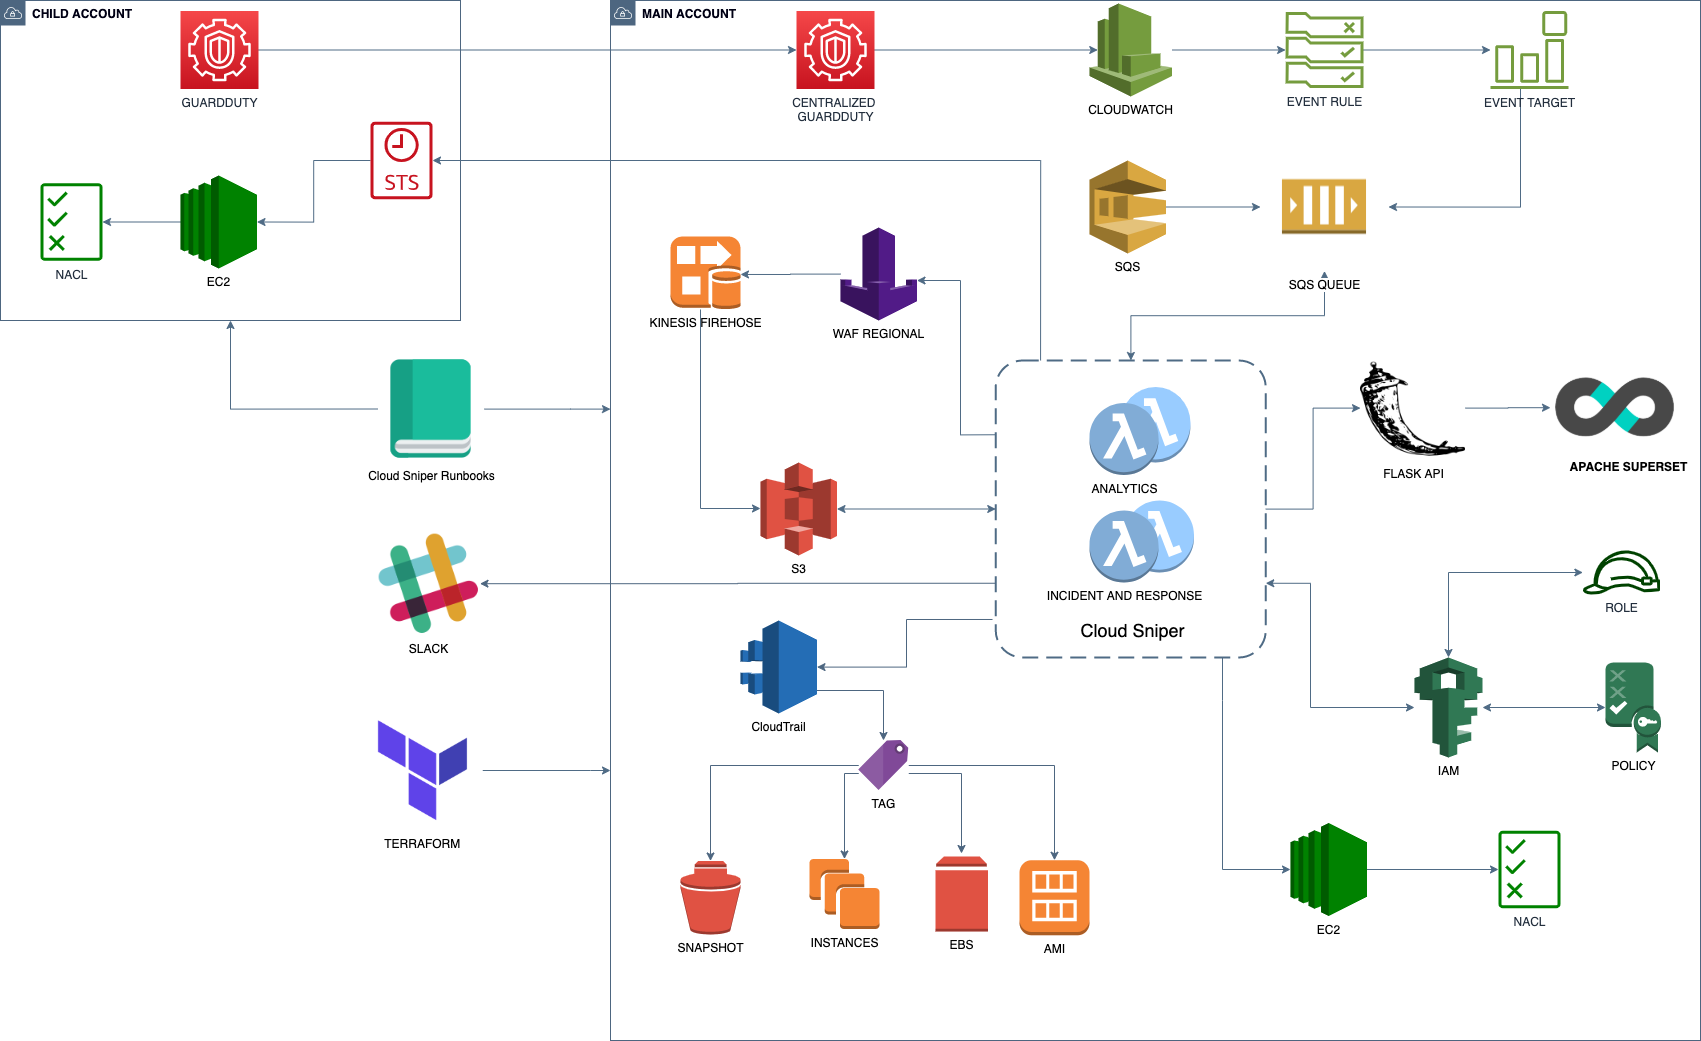
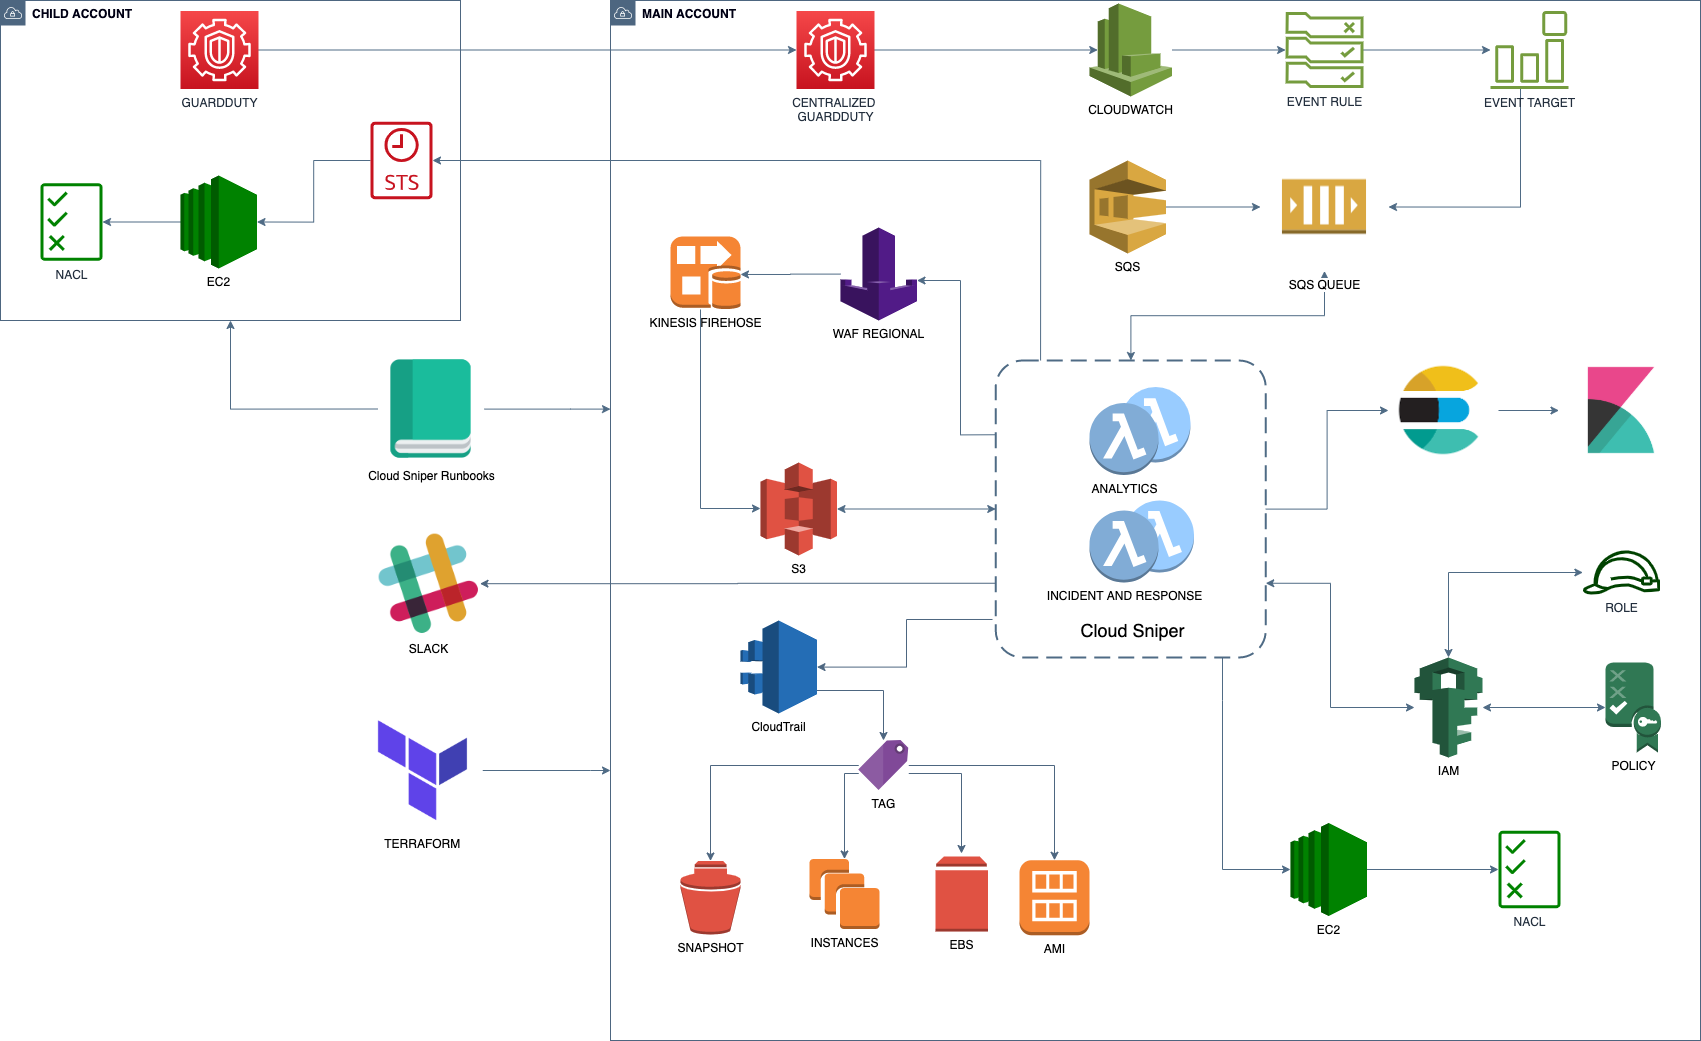
upcoming release

Changed region(s): [[0.9036, 0.3381, 0.9971, 0.4611], [0.779, 0.3381, 0.8724, 0.4611]]

diff --git a/README.md b/README.md
@@ -25,8 +25,8 @@ To detect advanced attack techniques, which may easily be ignored, ***Cloud Snip
 1.  Multi-account Incident and Response automation
 2.  IAM security automation lambda
 3.  Cloud Sniper Analytics - Enhanced C2 detection
-4.  Flask API
-5.  Apache Superset interactive visualizations
+4.  Elastic SIEM integration
+5.  Kibana dashboards
 
 ### NEW deployment
 
@@ -49,8 +49,3 @@ Authors:
 [Matías Marenchino - Security Analytics](https://www.linkedin.com/in/mlmarenchino/)
 
 ### Contact us: <cloudsniper.cba@gmail.com>
-
-### Main contributors:
-[Nicolás Rivero Corvalán](https://www.linkedin.com/in/riveronicolas/)  
-[Matías Marenchino](https://www.linkedin.com/in/mlmarenchino/)  
-[Alfredo Pardo](https://www.linkedin.com/in/alfredopardo/)
